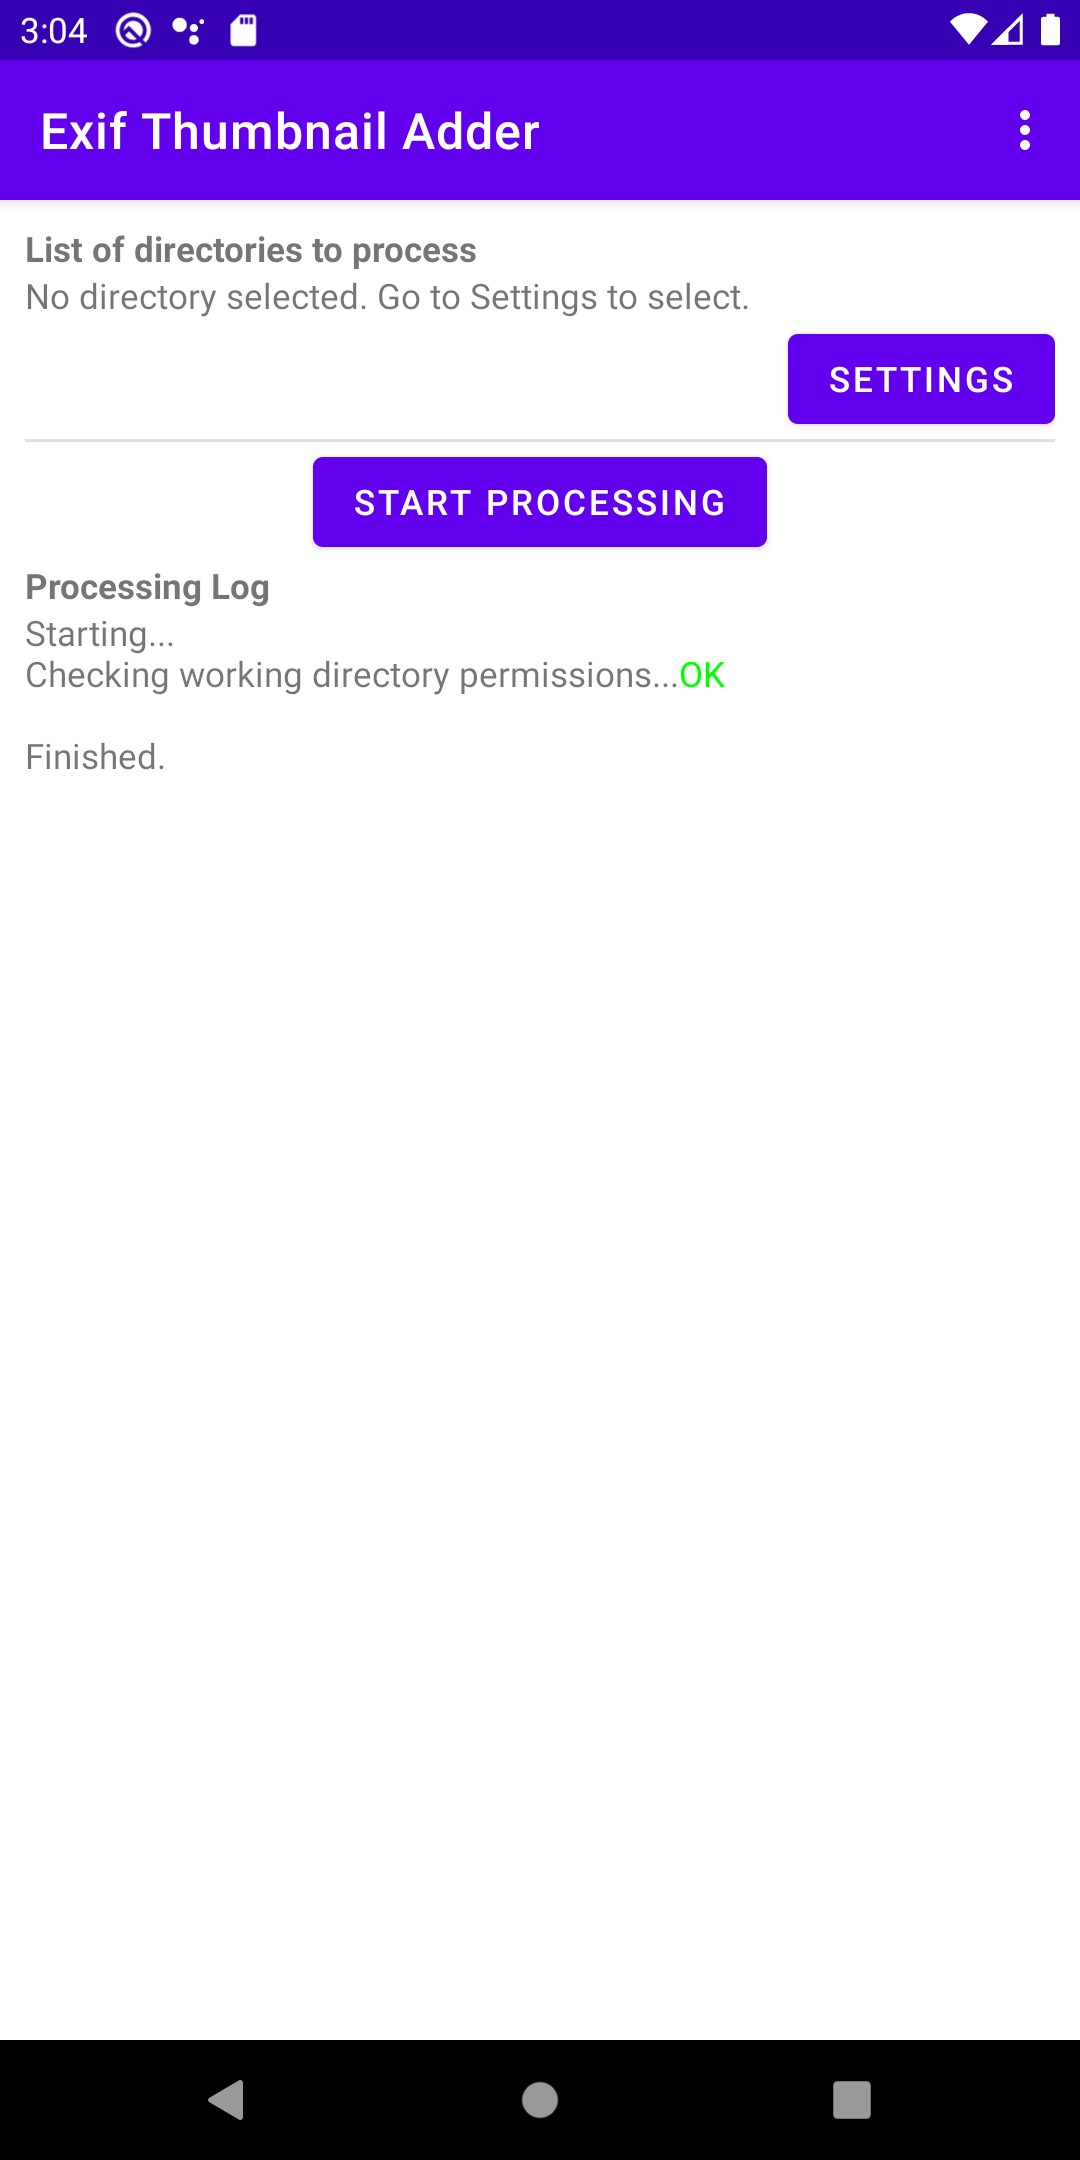
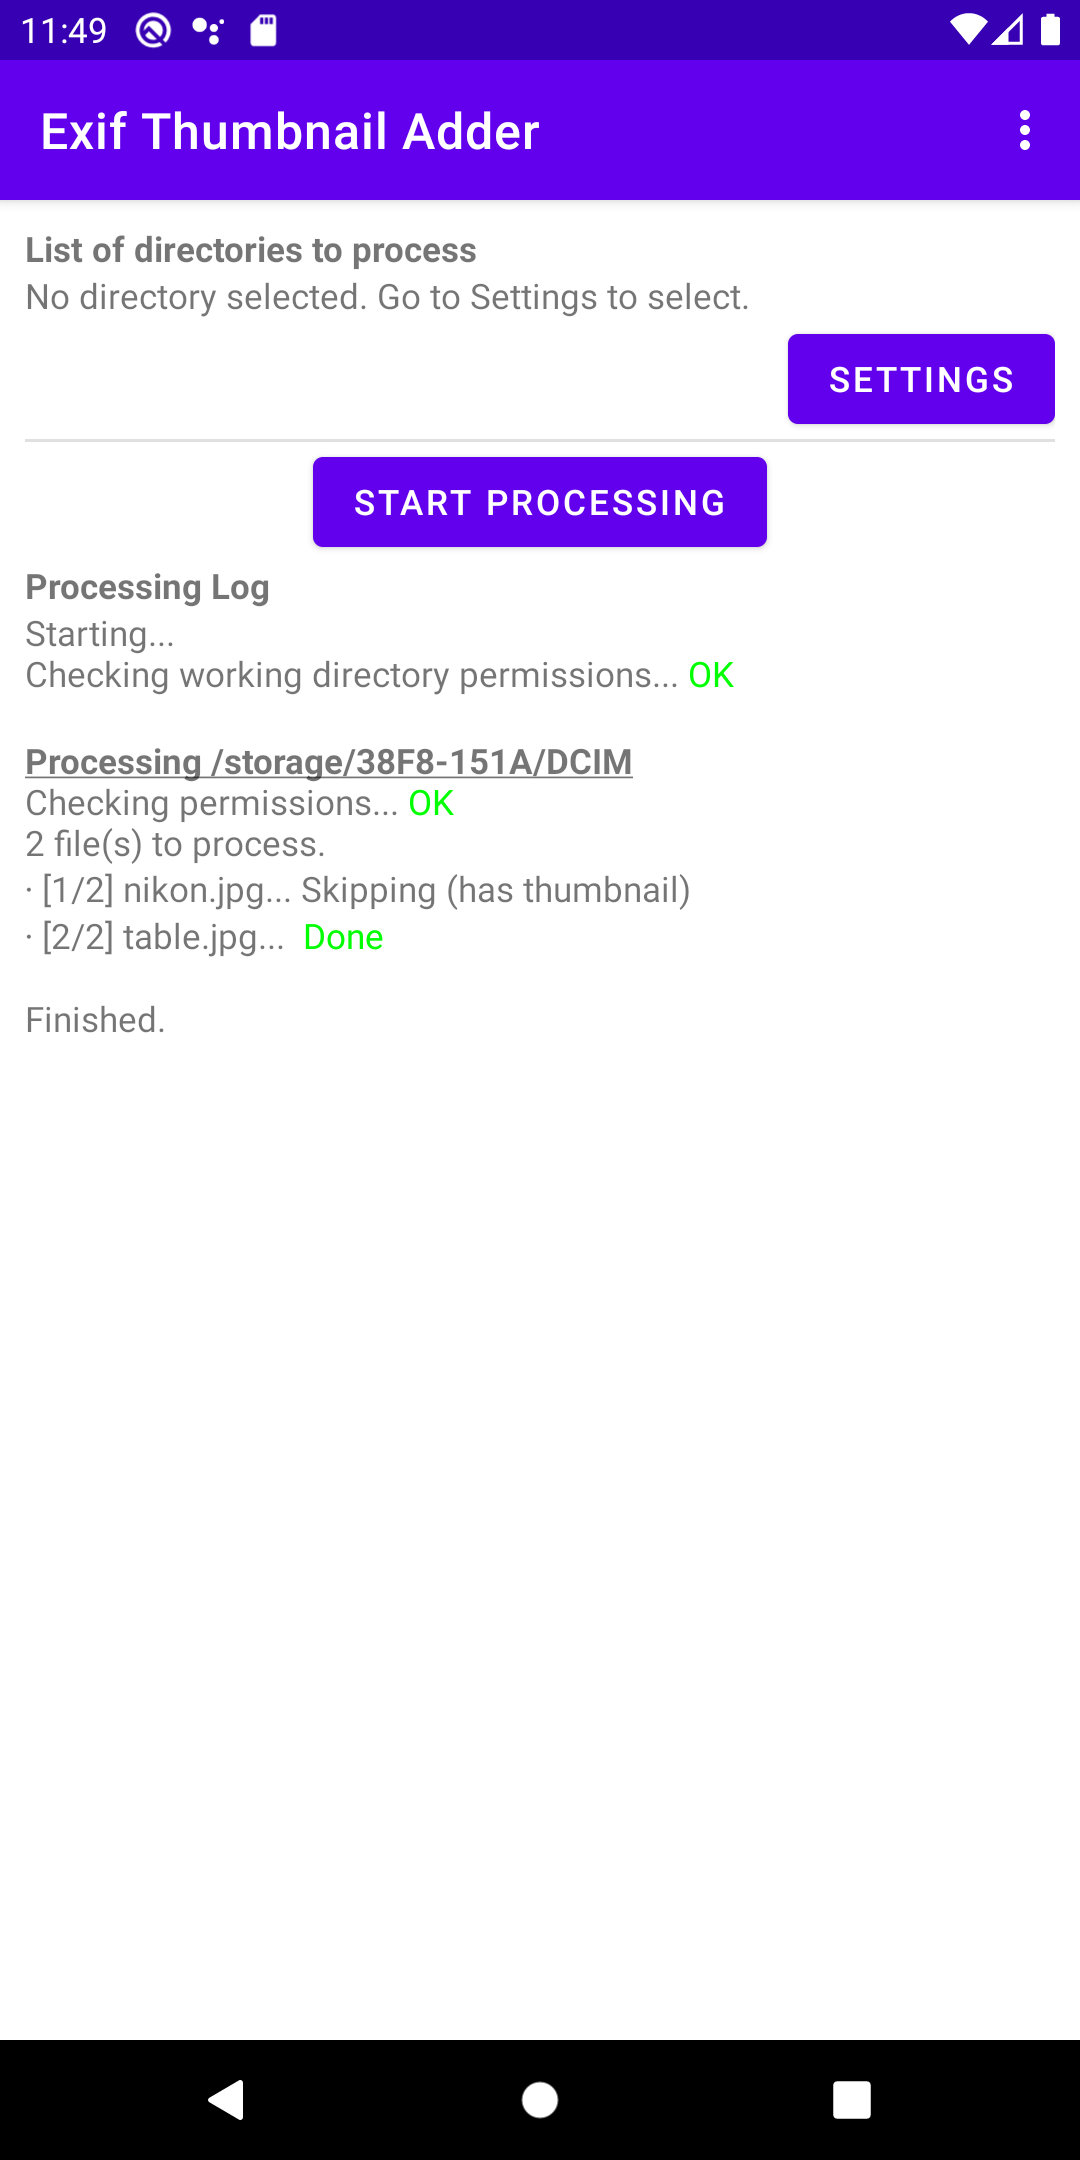
prepare release 0.9.1

diff --git a/app/src/androidTest/java/com/exifthumbnailadder/app/ExampleInstrumentedTest.java b/app/src/androidTest/java/com/exifthumbnailadder/app/ExampleInstrumentedTest.java
@@ -20,17 +20,21 @@
 package com.exifthumbnailadder.app;
 
 import android.content.Context;
+import android.content.pm.PackageManager;
+import android.content.res.Resources;
 
 import androidx.test.espresso.Espresso;
 import androidx.test.platform.app.InstrumentationRegistry;
 import androidx.test.ext.junit.runners.AndroidJUnit4;
 import androidx.test.rule.ActivityTestRule;
+import androidx.test.uiautomator.UiDevice;
+import androidx.test.uiautomator.UiObject;
+import androidx.test.uiautomator.UiSelector;
 
 import static androidx.test.espresso.Espresso.openActionBarOverflowOrOptionsMenu;
 import static androidx.test.espresso.action.ViewActions.click;
 import static androidx.test.espresso.Espresso.onView;
 import static androidx.test.espresso.action.ViewActions.pressBack;
-import static androidx.test.espresso.action.ViewActions.scrollTo;
 import static androidx.test.espresso.action.ViewActions.swipeUp;
 import static androidx.test.espresso.matcher.ViewMatchers.withId;
 
@@ -92,10 +96,79 @@ public class ExampleInstrumentedTest {
         Screengrab.screenshot("03-about");
 
         Espresso.pressBack();
+        onView(withId(R.id.button_settings)).perform(click());
+        UiDevice device = UiDevice.getInstance(getInstrumentation());
+
+        Context context = InstrumentationRegistry.getInstrumentation().getTargetContext();
+        String allow = "", allowAccessTo = "";
+        int resId;
+
+        try {
+            // Identifier names are taken here:
+            // https://cs.android.com/android/platform/superproject/+/android-10.0.0_r30:packages/apps/DocumentsUI/res/values/strings.xml
+            PackageManager manager = context.getPackageManager();
+            Resources resources = manager.getResourcesForApplication("com.android.documentsui");
+            resId = resources.getIdentifier("allow", "string", "com.android.documentsui");
+            allow = resources.getString(resId);
+            resId = resources.getIdentifier("open_tree_button", "string", "com.android.documentsui");
+            allowAccessTo = resources.getString(resId);
+            allowAccessTo = allowAccessTo.replaceFirst(" \"%1\\$s\"",""); //remove "%1$s"
+        } catch (Exception e) { e.printStackTrace(); }
+
+        UiObject uiElement = device.findObject(new UiSelector().clickable(true).textMatches("(?i)"+context.getString(R.string.settings_button_add_dir)));
+        try { uiElement.clickAndWaitForNewWindow(); }
+        catch (Exception e) { e.printStackTrace(); }
+
+        for (int i=0; i<2; i++) {
+            // Need to do it twice to be sure to catch the sd card. Sometimes it fails to do so.
+            UiObject drawer = device.findObject(new UiSelector().resourceId("com.android.documentsui:id/drawer_layout"));
+            try {
+                drawer.swipeRight(50);
+                drawer.waitForExists(250);
+            } catch (Exception e) { e.printStackTrace(); }
+
+            uiElement = device.findObject(new UiSelector().textMatches("(?i).*Virtual.*"));
+            try { uiElement.clickAndWaitForNewWindow(); }
+            catch (Exception e) { e.printStackTrace(); }
+        }
+
+        uiElement = device.findObject(new UiSelector().textContains("DCIM"));
+        try { uiElement.clickAndWaitForNewWindow(); }
+        catch (Exception e) { e.printStackTrace(); }
+
+        uiElement = device.findObject(new UiSelector().clickable(true).textContains(allowAccessTo));
+        try { uiElement.clickAndWaitForNewWindow(); }
+        catch (Exception e) { e.printStackTrace(); }
+
+        uiElement = device.findObject(new UiSelector().clickable(true).textMatches("(?i)" + allow));
+        try { uiElement.clickAndWaitForNewWindow(); }
+        catch (Exception e) { e.printStackTrace(); }
+
+        onView(withText(R.string.pref_overwriteDestPic_title)).perform(click());
+        onView(withText(R.string.pref_writeThumbnailedToOriginalFolder_title)).perform(click());
+
+        Espresso.pressBack();
         onView(withId(R.id.button_addThumbs)).perform(click());
+        Screengrab.screenshot("05-permissionRequest");
+
+        onView(withId(R.id.button_checkPermissions)).perform(click());
+
+        uiElement = device.findObject(new UiSelector().clickable(true).textMatches("(?i)"+context.getString(R.string.frag1_button_start_processing)));
+        try { uiElement.clickAndWaitForNewWindow(); }
+        catch (Exception e) { e.printStackTrace(); }
+
+        uiElement = device.findObject(new UiSelector().clickable(true).textContains(allowAccessTo));
+        try { uiElement.clickAndWaitForNewWindow(); }
+        catch (Exception e) { e.printStackTrace(); }
+
+        uiElement = device.findObject(new UiSelector().clickable(true).textMatches("(?i)" + allow));
+        try { uiElement.clickAndWaitForNewWindow(); }
+        catch (Exception e) { e.printStackTrace(); }
+
+        onView(withId(R.id.button_addThumbs)).perform(click());
+
+        // Wait 5 sec before taking screenshot
+        uiElement.waitForExists(5000);
         Screengrab.screenshot("04-finishedProcessing");
-
-        // TODO : screenshot with a configured app & done when "Start Processing" is finished
-
     }
 }

diff --git a/README.md b/README.md
@@ -55,7 +55,7 @@ GPL-3.0 (see "COPYING" file)
 
 ## To create screenshots
 `./gradlew assembleDebug assembleAndroidTest`  
-`fastlane screengrab --use_timestamp_suffix false --clear_previous_screenshots -q "en-US,fr-FR"`
+`fastlane screengrab --use_timestamp_suffix false --clear_previous_screenshots -q "en-US,fr-FR" --reinstall_app`
 
 
 ## Development / Building from source
